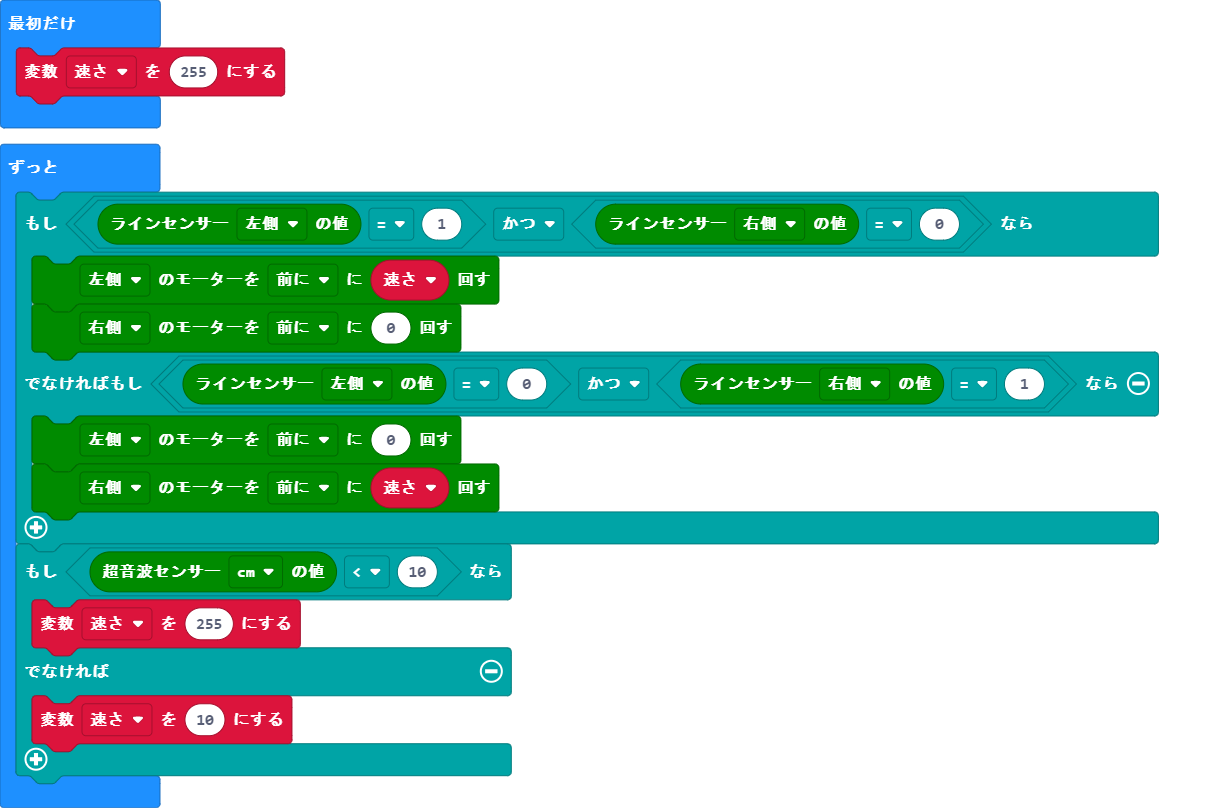
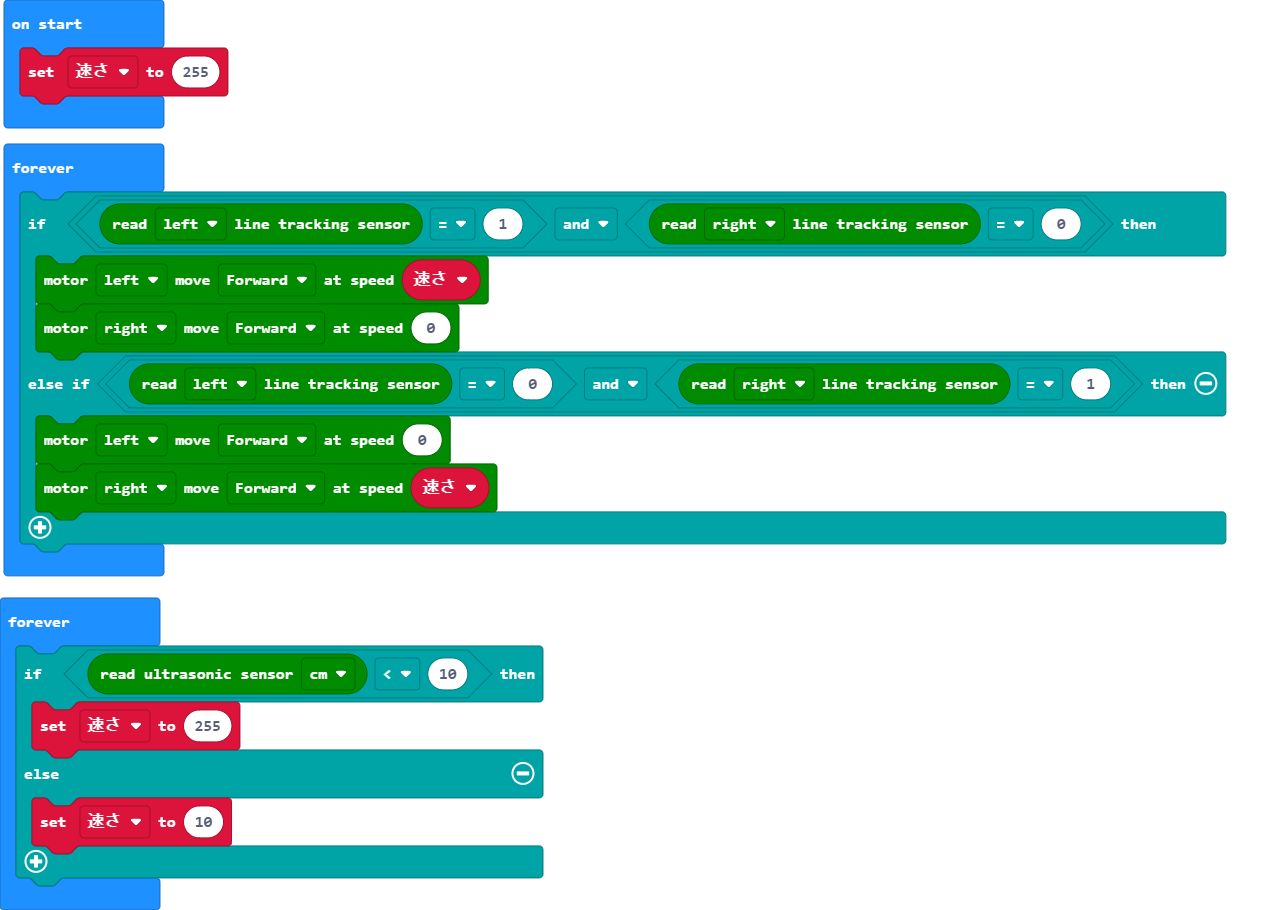
Update main.blocks, main.ts

diff --git a/main.ts b/main.ts
@@ -7,6 +7,8 @@ basic.forever(function () {
         maqueen.motorRun(maqueen.Motors.M1, maqueen.Dir.CW, 0)
         maqueen.motorRun(maqueen.Motors.M2, maqueen.Dir.CW, 速さ)
     }
+})
+basic.forever(function () {
     if (maqueen.Ultrasonic(PingUnit.Centimeters) < 10) {
         速さ = 255
     } else {
